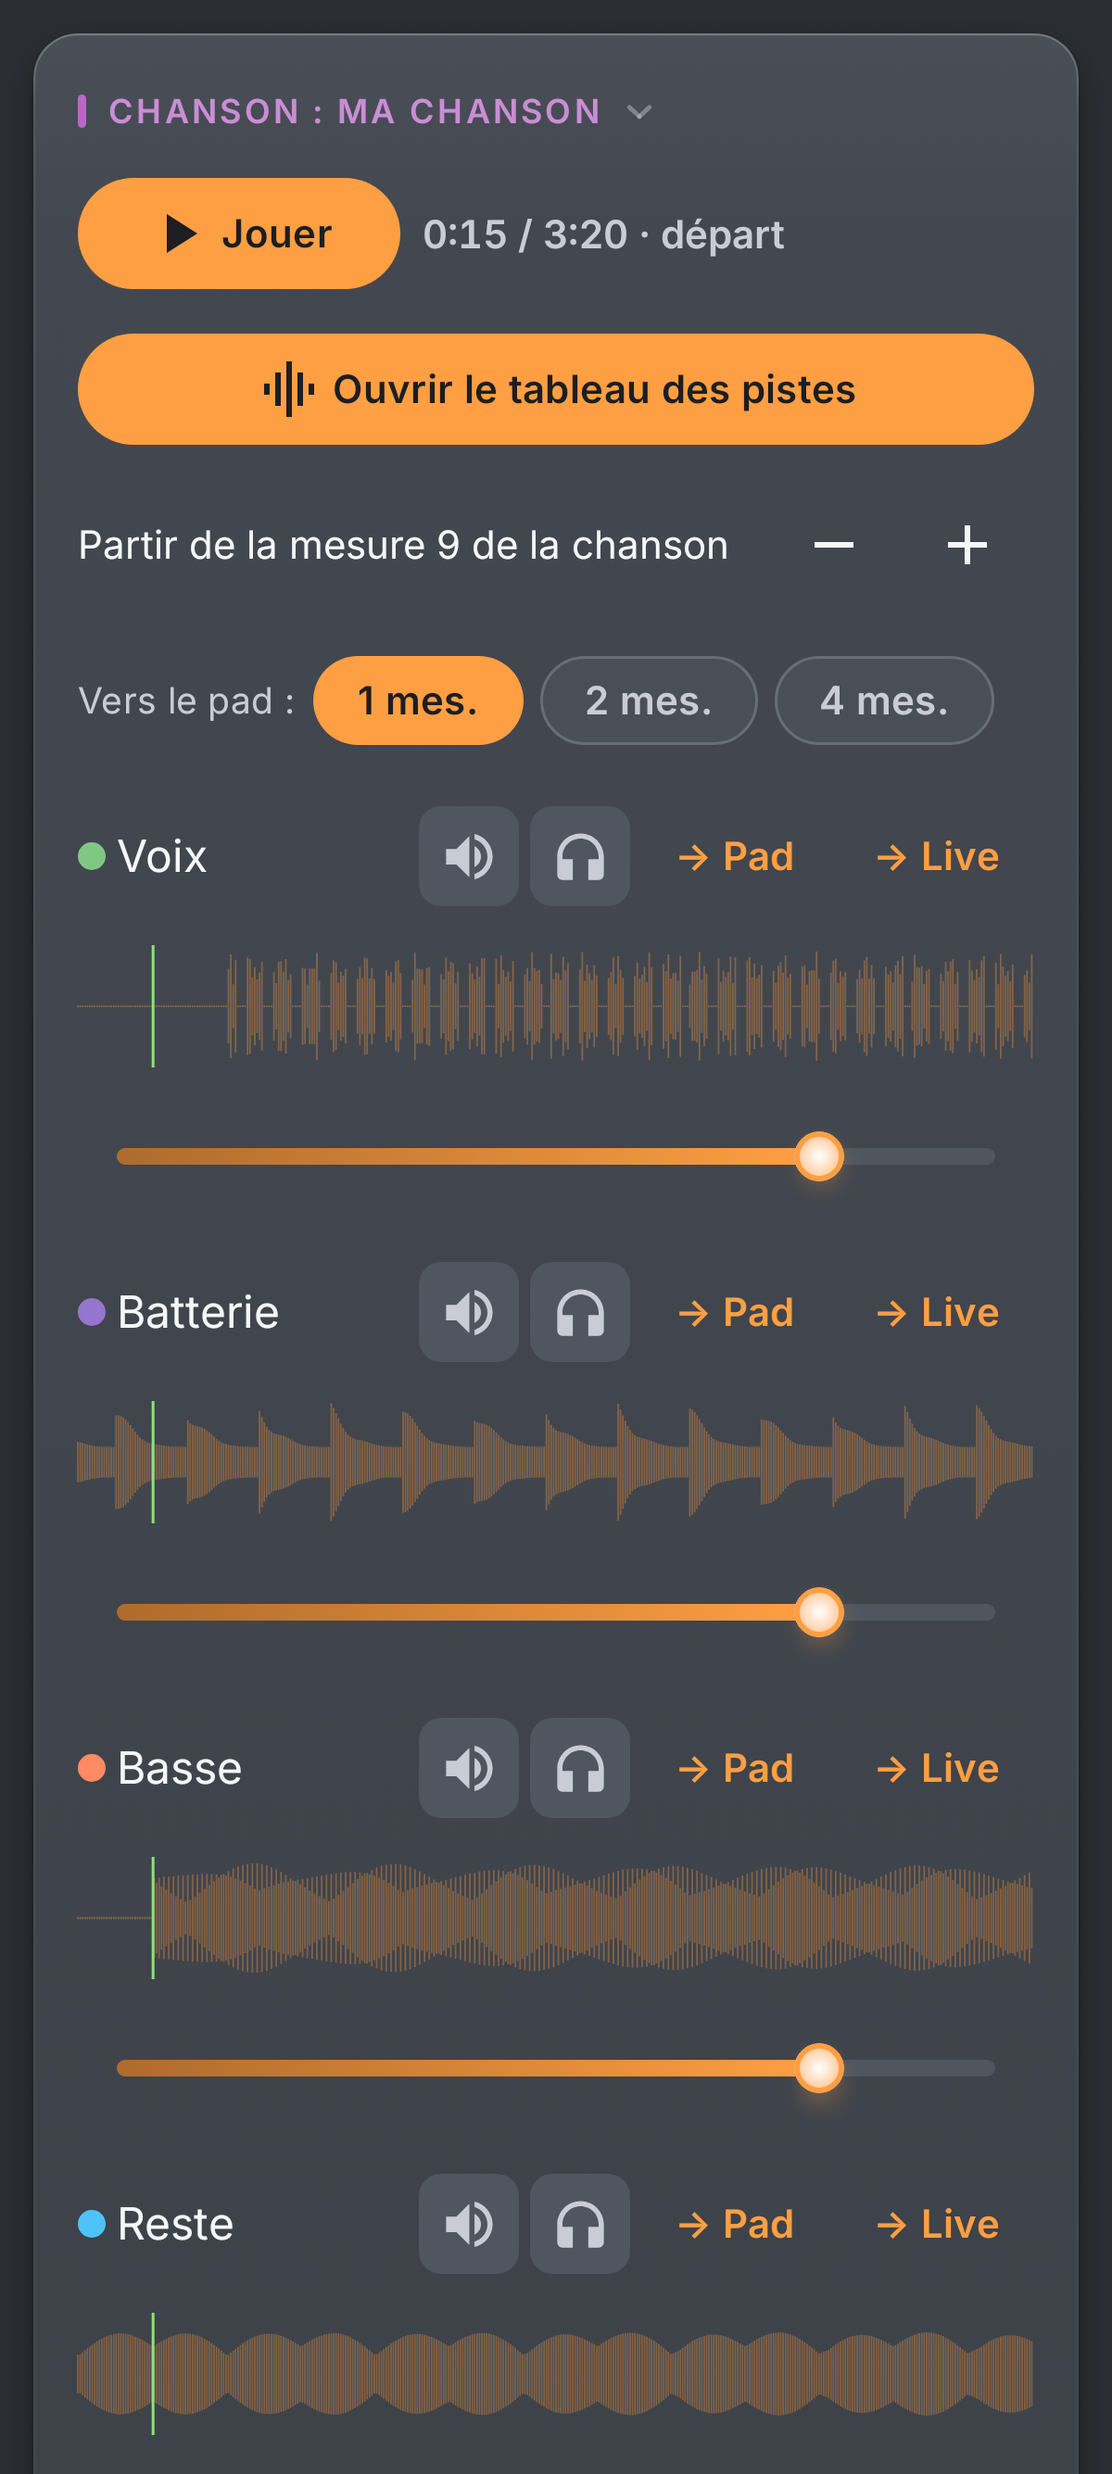
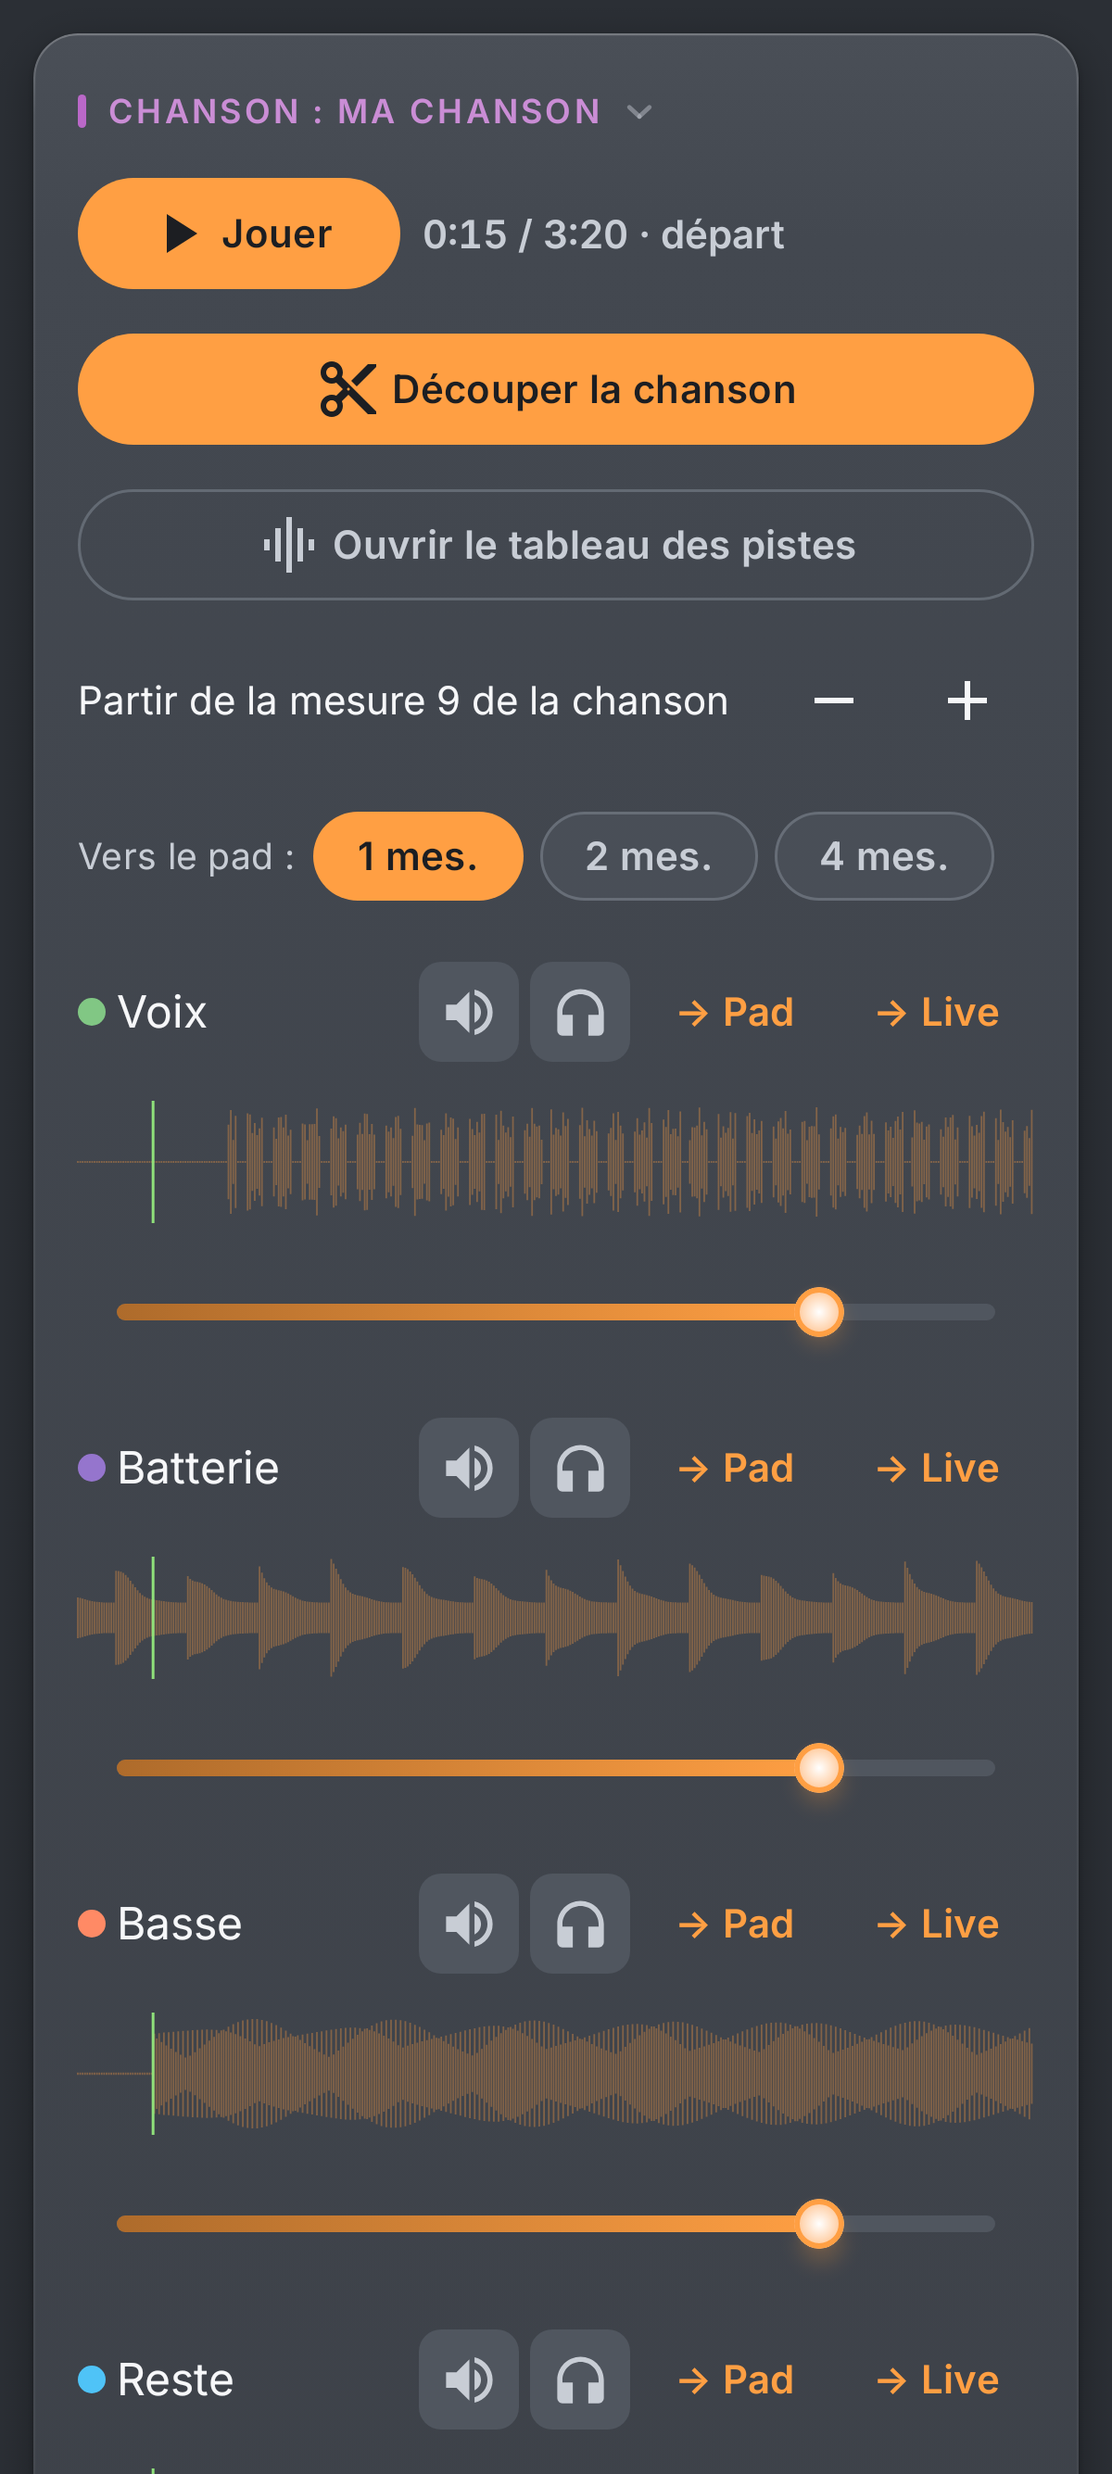
Lot C: cut screen captures, compact menu row, lot note
Screenshots of the cut screen, its magnifier, Ma bibliothèque by song and the
Remix card with « Découper la chanson ». The menus keep their words on a
400 dp phone (Coupes / Aimant, undo as an arrow). docs/lots/C.md: what was
done, the real-song voice notes score, decisions to copy, ideas left.

Claude-Session: https://claude.ai/code/session_01NqonxZBBysqqWBbnsC2VTP

diff --git a/app/src/test/java/com/pocketstudio/app/remix/CutScreenshotTest.kt b/app/src/test/java/com/pocketstudio/app/remix/CutScreenshotTest.kt
@@ -1,0 +1,113 @@
+package com.pocketstudio.app.remix
+
+import androidx.compose.runtime.LaunchedEffect
+import androidx.compose.runtime.remember
+import com.pocketstudio.app.ScreenshotTest
+import com.pocketstudio.app.library.MINE
+import com.pocketstudio.app.library.ShelfBrowser
+import com.pocketstudio.app.library.ShelfBrowserActions
+import com.pocketstudio.app.library.ShelfBrowserUi
+import com.pocketstudio.app.library.SoundOption
+import com.pocketstudio.app.library.SoundRef
+import com.pocketstudio.model.CutPiece
+import com.pocketstudio.model.SongCuts
+import com.pocketstudio.model.StemCuts
+import kotlinx.coroutines.flow.MutableStateFlow
+import org.junit.Test
+import org.junit.runner.RunWith
+import org.robolectric.RobolectricTestRunner
+import org.robolectric.annotation.Config
+import org.robolectric.annotation.GraphicsMode
+import kotlin.coroutines.EmptyCoroutineContext
+import kotlin.math.PI
+import kotlin.math.abs
+import kotlin.math.sin
+
+/**
+ * Lot C, n° 24: « Découper la chanson » as on the mockup (docs/maquettes/decoupe-deux.png): the
+ * voice of a 2:25 song cut in six pieces over bars 13 to 21, three ticked; a cut moved with its
+ * magnifier; « Ma bibliothèque » filed by song in the one browser (app/screenshots/).
+ */
+@RunWith(RobolectricTestRunner::class)
+@GraphicsMode(GraphicsMode.Mode.NATIVE)
+@Config(qualifiers = "w400dp-h890dp-xxhdpi")
+class CutScreenshotTest : ScreenshotTest() {
+    override fun wanted(name: String) = name in SHOTS
+
+    private val frames = 145L * BOARD_RATE
+    private val bpm = 113.0
+    private val bar = 4 * 60.0 / bpm * BOARD_RATE
+
+    /** A voice singing in phrases (two bars on, one off from bar 5), the other stems all along. */
+    private fun level(stem: Int, f: Long): Float {
+        val b = f / bar
+        val i = f / 480
+        return when (stem) {
+            3 -> if (b < 4 || (b % 3) >= 2.2) 0.01f else (0.3 + 0.6 * abs(sin(b * PI * 3.1)) * (0.6 + 0.4 * sin(i * 0.7))).toFloat()
+            0 -> (0.3 + 0.7 * (1 - ((b * 4) % 1.0)).let { it * it * it }).toFloat()
+            else -> (0.3 + 0.3 * abs(sin(b * PI / 4)) + 0.1 * abs(sin(i * 0.05))).toFloat()
+        }
+    }
+
+    private val peaks = StemPeakSource { stem ->
+        StemPeaks.of(frames, 1) { start, count -> FloatArray(count) { k -> val f = start + k; if (f % 480 == 0L) level(stem, f) else 0f } }
+    }
+
+    private fun ui() = StemBoardUi("boys", "ADÉLA - Boys", frames, bpm, 0.0, peaks, peaksContext = EmptyCoroutineContext)
+
+    /** Six pieces between bars 13 and 21 (and the song's other phrases), the first, second and fourth ticked. */
+    private val cuts = run {
+        fun at(b: Double) = Math.round(b * bar)
+        val inView = listOf(12.4 to 13.6, 13.6 to 14.7, 14.7 to 15.7, 15.7 to 17.0, 17.0 to 18.3, 18.3 to 19.4)
+        val pieces = (listOf(4.0 to 6.2, 7.0 to 9.2) + inView + listOf(22.0 to 24.2)).map { (a, z) -> CutPiece(at(a), at(z)) }
+        SongCuts("boys", listOf(StemCuts(3, pieces, chosen = listOf(2, 3, 5), auto = "Phrases")))
+    }
+
+    private class Shown(private val cuts: SongCuts) : StemBoardActions by NoStemBoardActions {
+        override val state = MutableStateFlow(StemBoardState())
+        override fun savedCuts(setId: String, frames: Long) = cuts
+    }
+
+    @androidx.compose.runtime.Composable
+    private fun screen(moving: Boolean) {
+        val actions = remember { Shown(cuts) }
+        val model = remember { CutModel("boys", frames, bpm, 0.0, cuts) }
+        val view = rememberStemBoardView(ui())
+        CutScreen(ui(), actions, onClose = {}, model = model, view = view)
+        LaunchedEffect(view.width) {
+            if (view.width > 0f && !view.zoomedIn) {
+                view.zoomBy((frames / (7.2 * bar)).toFloat(), 0f)
+                view.scrollBy(-view.x(Math.round(12.2 * bar)))
+                model.cursor = Math.round(14.2 * bar)
+                if (moving) {
+                    val line = model.pieces[3].start
+                    model.beginMove(line, 4_000)
+                    model.moveTo(line + Math.round(bar / 4))
+                }
+            }
+        }
+    }
+
+    @Test
+    fun cutScreen() = shoot("cut_screen") { screen(moving = false) }
+
+    @Test
+    fun cutScreenMagnifier() = shoot("cut_screen_magnifier") { screen(moving = true) }
+
+    /** « Ma bibliothèque » of the one browser: a folder per song the sounds were kept from. */
+    @Test
+    fun libraryMineFolders() = shoot("library_mine_folders") {
+        val origin = mapOf("1" to "ADÉLA - Boys", "2" to "ADÉLA - Boys", "3" to "ADÉLA - Boys", "4" to "Mon acidcore", "5" to "")
+        val mine = listOf("Voix · ADÉLA - Boys", "Voix · ADÉLA - Boys 2", "Voix · ADÉLA - Boys 3", "Kick de ma voix", "Cri").mapIndexed { i, n ->
+            SoundOption(SoundRef.Mine("${i + 1}"), n)
+        }
+        ShelfBrowser(
+            ShelfBrowserUi(emptyList(), "vocal", tag = "library", start = MINE, mine = mine, mineGroupOf = { origin[(it.ref as SoundRef.Mine).id] }),
+            ShelfBrowserActions(),
+        )
+    }
+
+    companion object {
+        val SHOTS = setOf("cut_screen", "cut_screen_magnifier", "library_mine_folders")
+    }
+}

diff --git a/app/src/main/java/com/pocketstudio/app/remix/CutScreen.kt b/app/src/main/java/com/pocketstudio/app/remix/CutScreen.kt
@@ -243,17 +243,18 @@ private fun magnetName(m: CutMagnet): String = when (m) {
 private fun AutoRow(model: CutModel, finding: Boolean, onAuto: (AutoCut) -> Unit) {
     Row(Modifier.fillMaxWidth(), horizontalArrangement = Arrangement.spacedBy(6.dp), verticalAlignment = Alignment.CenterVertically) {
         Menu(
-            label = tr("Coupes auto :"), value = if (finding) "…" else autoName(model.auto), tag = "cut_auto",
-            options = AutoCut.entries.map { autoName(it) to { onAuto(it) } }, modifier = Modifier.weight(1.15f),
+            label = tr("Coupes :"), value = if (finding) "…" else autoName(model.auto), tag = "cut_auto",
+            options = AutoCut.entries.map { autoName(it) to { onAuto(it) } }, modifier = Modifier.weight(1f, fill = false),
         )
         Menu(
             label = tr("Aimant :"), value = magnetName(model.magnet), tag = "cut_magnet",
             options = (if (model.hasGrid) CutMagnet.entries else listOf(CutMagnet.Free)).map { m -> magnetName(m) to { model.magnet = m } },
-            modifier = Modifier.weight(1f),
+            modifier = Modifier.weight(1f, fill = false),
         )
-        TextButton(onClick = model::undo, enabled = model.canUndo, modifier = Modifier.testTag("cut_undo")) {
-            Icon(Icons.AutoMirrored.Filled.Undo, contentDescription = null, modifier = Modifier.size(18.dp))
-            Text(" " + tr("Annuler"), maxLines = 1)
+        Spacer(Modifier.weight(0.01f))
+        // The arrow alone: both menus keep their words on a phone.
+        IconButton(onClick = model::undo, enabled = model.canUndo, modifier = Modifier.testTag("cut_undo")) {
+            Icon(Icons.AutoMirrored.Filled.Undo, contentDescription = tr("Annuler"), tint = if (model.canUndo) Neon.Cyan else Neon.TextSecondary)
         }
     }
 }
@@ -264,11 +265,13 @@ private fun Menu(label: String, value: String, tag: String, options: List<Pair<S
     Box(modifier) {
         Row(
             Modifier.fillMaxWidth().heightIn(min = 48.dp).clip(RoundedCornerShape(24.dp)).background(Neon.SurfaceHigh)
-                .clickable(role = Role.Button) { open = true }.padding(horizontal = 12.dp).testTag(tag),
+                .clickable(role = Role.Button) { open = true }.padding(start = 10.dp, end = 4.dp).testTag(tag),
             verticalAlignment = Alignment.CenterVertically,
         ) {
-            Text(label + " ", style = MaterialTheme.typography.bodyMedium, color = Neon.TextSecondary, maxLines = 1)
-            Text(value, style = MaterialTheme.typography.bodyMedium, fontWeight = FontWeight.Bold, maxLines = 1, overflow = TextOverflow.Ellipsis, modifier = Modifier.weight(1f, fill = false))
+            // The value is what matters: the label gives way first on a narrow phone.
+            Text(label + " ", style = MaterialTheme.typography.labelMedium, color = Neon.TextSecondary, maxLines = 1,
+                overflow = TextOverflow.Ellipsis, modifier = Modifier.weight(1f, fill = false))
+            Text(value, style = MaterialTheme.typography.labelLarge, fontWeight = FontWeight.Bold, maxLines = 1)
             Icon(Icons.Filled.ArrowDropDown, contentDescription = null, modifier = Modifier.size(18.dp))
         }
         DropdownMenu(expanded = open, onDismissRequest = { open = false }) {

diff --git a/docs/lots/C.md b/docs/lots/C.md
@@ -1,0 +1,47 @@
+# Lot C « Remix » : note de suivi (branche fx-c)
+
+Consigne : `docs/PLAN-REPRISE.md` étape C, fichiers `docs/CARTE-CODE.md` §2 C. Maquette validée `docs/maquettes/decoupe-deux.png`.
+
+## Fait
+- **Nouvelle découpe (n° 24)** : écran « Découper la chanson » (`remix/CutScreen.kt`, `CutWave.kt`, `CutModel.kt`), ouvert par le gros bouton « Découper la chanson » de la carte Remix (le tableau des pistes reste en dessous). Comme la maquette : puces Voix/Batterie/Basse/Reste, vue d'ensemble avec le passage encadré (toucher = y aller), zone zoomée (« Pince pour zoomer ») avec bouts numérotés et colorés, lignes de coupe et poignées, tête de lecture orange ; coupes auto Phrases/Attaques/Mesures (sur le passage affiché, toute la chanson si rien n'est zoomé ; la voix est coupée en phrases dès la première ouverture) ; aimant Au temps / À la mesure / Libre ; « Couper ici » (à la tête de lecture, ou là où ça joue pendant l'écoute), Début, Fin, Enlever (les bouts cochés, sinon celui sous la tête), Boucle (bout calé sur un nombre entier de temps, écouté en boucle) ; coupe déplacée au doigt avec loupe (« 0:29.20 · sur le temps ») et aimant ; Annuler (50 pas, un déplacement = un pas) ; liste « Tes bouts » à cocher, écoute d'un toucher, « Tout choisir » ; barre « N bouts choisis · durée » → Sur les pads (un seul pas d'annulation, pads libres seulement) / Dans le Live / Garder / Sur une piste (une nouvelle piste audio, les bouts à leur place dans la chanson, silence entre eux).
+- Tout passe par `StemBoardActions` / `StemDestination` (méthodes ajoutées avec valeur par défaut : `play(sel, loop)`, `savedCuts`, `saveCuts`, `autoCuts`, `sendPieces`). La branche `StemDestination.Live` du routeur n'est pas modifiée : plusieurs bouts vers le Live = la même route appelée bout par bout (`route()` = l'ancien `send` sans le contrôle « occupé »).
+- **Modèle** : `model/SongCuts.kt` (règles pures : couper, début, fin, enlever, lignes partagées, aimant, mesures, attaques, boucle) ; champ `Project.songCuts` à la fin, valeur par défaut, absent du fichier quand vide, pas de nouveau numéro de format. Enregistré sans pas d'annulation du projet (`session.editQuietly`, section Stem board de `RhythmViewModel`) : l'écran a son propre Annuler.
+- **« Garder » dans le navigateur unique (reste 7d)** : `SoundShelfBrowser.kt` range « Ma bibliothèque » en dossiers par origine (« Ma bibliothèque › Boys »), seulement quand il y a un choix (un seul dossier = la liste telle quelle) ; branché dans `LibraryScreen.kt`. Message après « Garder » plusieurs bouts : « 3 bouts gardés dans Ma bibliothèque, dans le dossier Boys. »
+- **Rappel des droits** : `remix/RightsNotice.kt` (`RightsNotice.line(project)`, composable `RightsLine(project)`), rien sans chanson.
+- **Voix en notes sur la vraie chanson (reste n° 23)** : `scripts/separation-tests.sh --file chanson.mp3 --out DOSSIER` (MP3 décodé par ffmpeg, séparé par notre code, `separation/host-tests/separate_file.cpp`) puis `scripts/voice-notes-check.py --stems DOSSIER/… --work … --bpm 113` (nos notes `SongMatter.voiceNotes` via le test `VoiceNotesFileCheck`, ignoré sans fichier, comparées à Basic Pitch). Sorties dans le scratchpad uniquement, rien de la chanson dans le dépôt.
+- Textes : `i18n/<14 langues>/remixc.json`, une ligne dans `I18n.AREAS`.
+
+## Tests (ciblés, tous verts)
+- `MT/SongCutsTest` (9), `T/remix/CutModelTest` (7 : coupes, annuler, déplacement en un pas, coches, sauvegarde, coupes auto sur son synthétique, rappel des droits), `T/remix/CutJourneyTest` (2 : bout en bout sur son synthétique : phrases auto, Couper ici, coupe déplacée avec aimant, 3 bouts → pads en un pas, Annuler, sauvegarde → réouverture ; plusieurs bouts vers Live, piste et bibliothèque), `T/remix/KeepInBrowserTest` (2), `CutScreenshotTest`. Relancés verts : `remix.*`, `library.*`, `StemBoardScreenshotTest`, `*Everywhere*`, `*AppTexts*`, `*Remix*`, `i18n.*`.
+- Captures regardées : `cut_screen`, `cut_screen_magnifier`, `library_mine_folders` (neuves), `remix_board_button` (réenregistrée : bouton « Découper la chanson » ajouté).
+
+## Contrôle sur la vraie chanson (ADÉLA - Boys, une fois, 2026-11-03)
+Séparation complète sur Linux (~3 min). 416 notes de voix sur toute la chanson (0,9 s à 140,6 s), tempo 113 :
+- **Hauteur image par image de Basic Pitch : 364/416 = 87,5 % à ±1 demi-ton** (objectif 80 % : atteint ; tiers de la chanson 93 %, 90 %, 81 %).
+- Notes de Basic Pitch (seuils par défaut) : 317/416 de nos notes en recouvrent une, dont 86 % à ±1 demi-ton (65,6 % sur toutes nos notes) ; 21 notes à l'octave. Basic Pitch ne fait pas de note sur les sons courts chantés, d'où la mesure image par image retenue comme objectif.
+
+## Décisions à recopier (DECISIONS)
+- 2026-11-03 · Découpe : coupes auto sur le passage affiché (toute la chanson si rien n'est zoomé) ; la voix coupée en phrases à la première ouverture, les autres pistes en mesures (attaques sans tempo). Raison : la maquette montre un passage ; 60+ bouts d'un coup illisibles. Retour : `CutScreen.autoCut(whole = true)`.
+- 2026-11-03 · Annuler de la découpe = historique propre à l'écran, coupes enregistrées sans pas d'annulation du projet. Raison : un geste de doigt ne doit pas remplir l'annulation générale. Retour : `saveCuts` avec `session.edit`.
+- 2026-11-03 · « Sur une piste » avec plusieurs bouts = une seule nouvelle piste audio, chaque bout à sa place dans la chanson. Raison : une piste n'a qu'un clip ; garde le calage. Retour : `sendPieces` branche Track.
+- 2026-11-03 · « Dans le Live » avec plusieurs bouts = la route Live existante, bout par bout (un pas d'annulation par bout). Raison : la branche Live est à B. Retour : un `putOnLivePads` groupé quand B le propose.
+- 2026-11-03 · Aimant : « Au temps » / « À la mesure » / « Libre » (« Temps » se traduit déjà « Time »), « Coupes : » au lieu de « Coupes auto : » et Annuler en flèche seule : sinon les menus sont coupés sur un téléphone de 400 dp.
+- 2026-11-03 · Voix en notes : objectif mesuré contre la hauteur image par image de Basic Pitch (les notes de Basic Pitch, seuils par défaut, manquent des notes courtes) ; les deux chiffres sont affichés.
+
+## « Règle partout »
+- Envois depuis la découpe : une seule porte (`StemDestination` via `StemBoardRouter`), mêmes règles que le tableau des pistes (pads libres seulement, longueurs max, message court) : `CutJourneyTest`, `StemBoardRouterTest` (inchangé, vert).
+- « Garder » : tous les écrans qui gardent un son (pads, clips, pads live, Remix) écrivent `MySound.origin` ; le classement par dossier est dans le navigateur unique, donc partout où il montre « Ma bibliothèque » (`KeepInBrowserTest`).
+- Voix en notes : même outil possible pour la basse (`bassNotes`) — pas lancé (la consigne visait la voix) : à faire à l'étage 1 de l'Audit si voulu.
+
+## Demandes à l'orchestrateur
+- Brancher `RightsLine(project)` d'une ligne sous les boutons de `export/ShareSheet.kt` (fichier de B/E).
+- Pluriels polonais/arabe (`|few`, `|many`) des nouveaux `trCount` (« bouts ») : dans `plurals.json` (fichier partagé) si on veut la grammaire exacte ; sinon la forme « other » s'affiche.
+
+## Idées (pas faites)
+- Dupliquer, inverser, transposer, étirer une piste de la chanson dans Structure : l'écran Structure (`session/`) n'est pas à C et étirer demande `StemPlayer`/`TimeStretch` (moteur) → lot D ou Audit.
+- Séparation coupée qui reprend là où elle s'est arrêtée : aujourd'hui l'appli le dit et propose de relancer ; reprendre à mi-chemin demande des points de reprise dans le séparateur natif.
+- Découpe côte à côte avec Structure sur tablette : lot D (prévu).
+- Corriger les 21 notes de voix à l'octave (YIN) : pas nécessaire pour l'objectif, à revoir si Benjamin l'entend.
+
+## Prochaine sous-étape
+Rien de bloquant : lot C prêt à ranger. Au rangement : réenregistrer `remix_board_button` si conflit, recopier les décisions ci-dessus.
